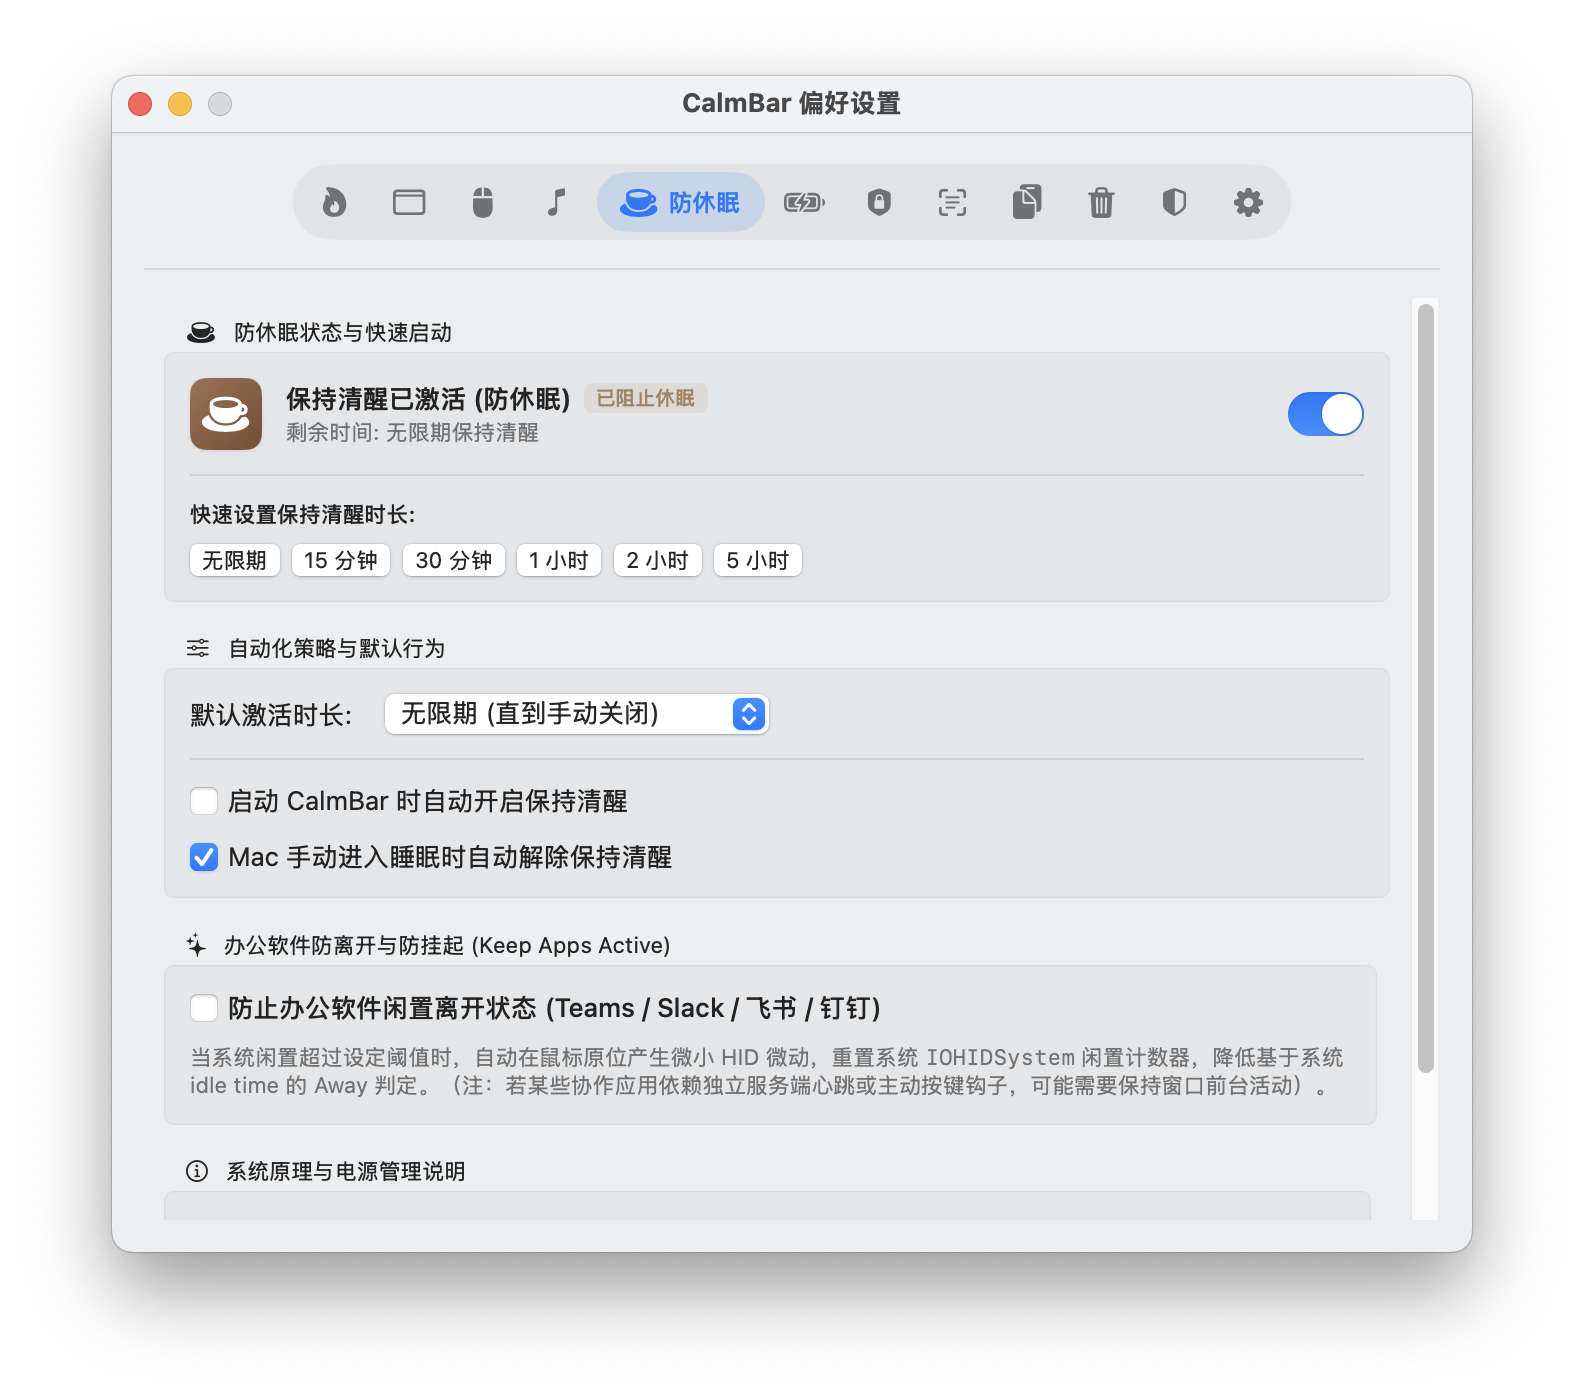
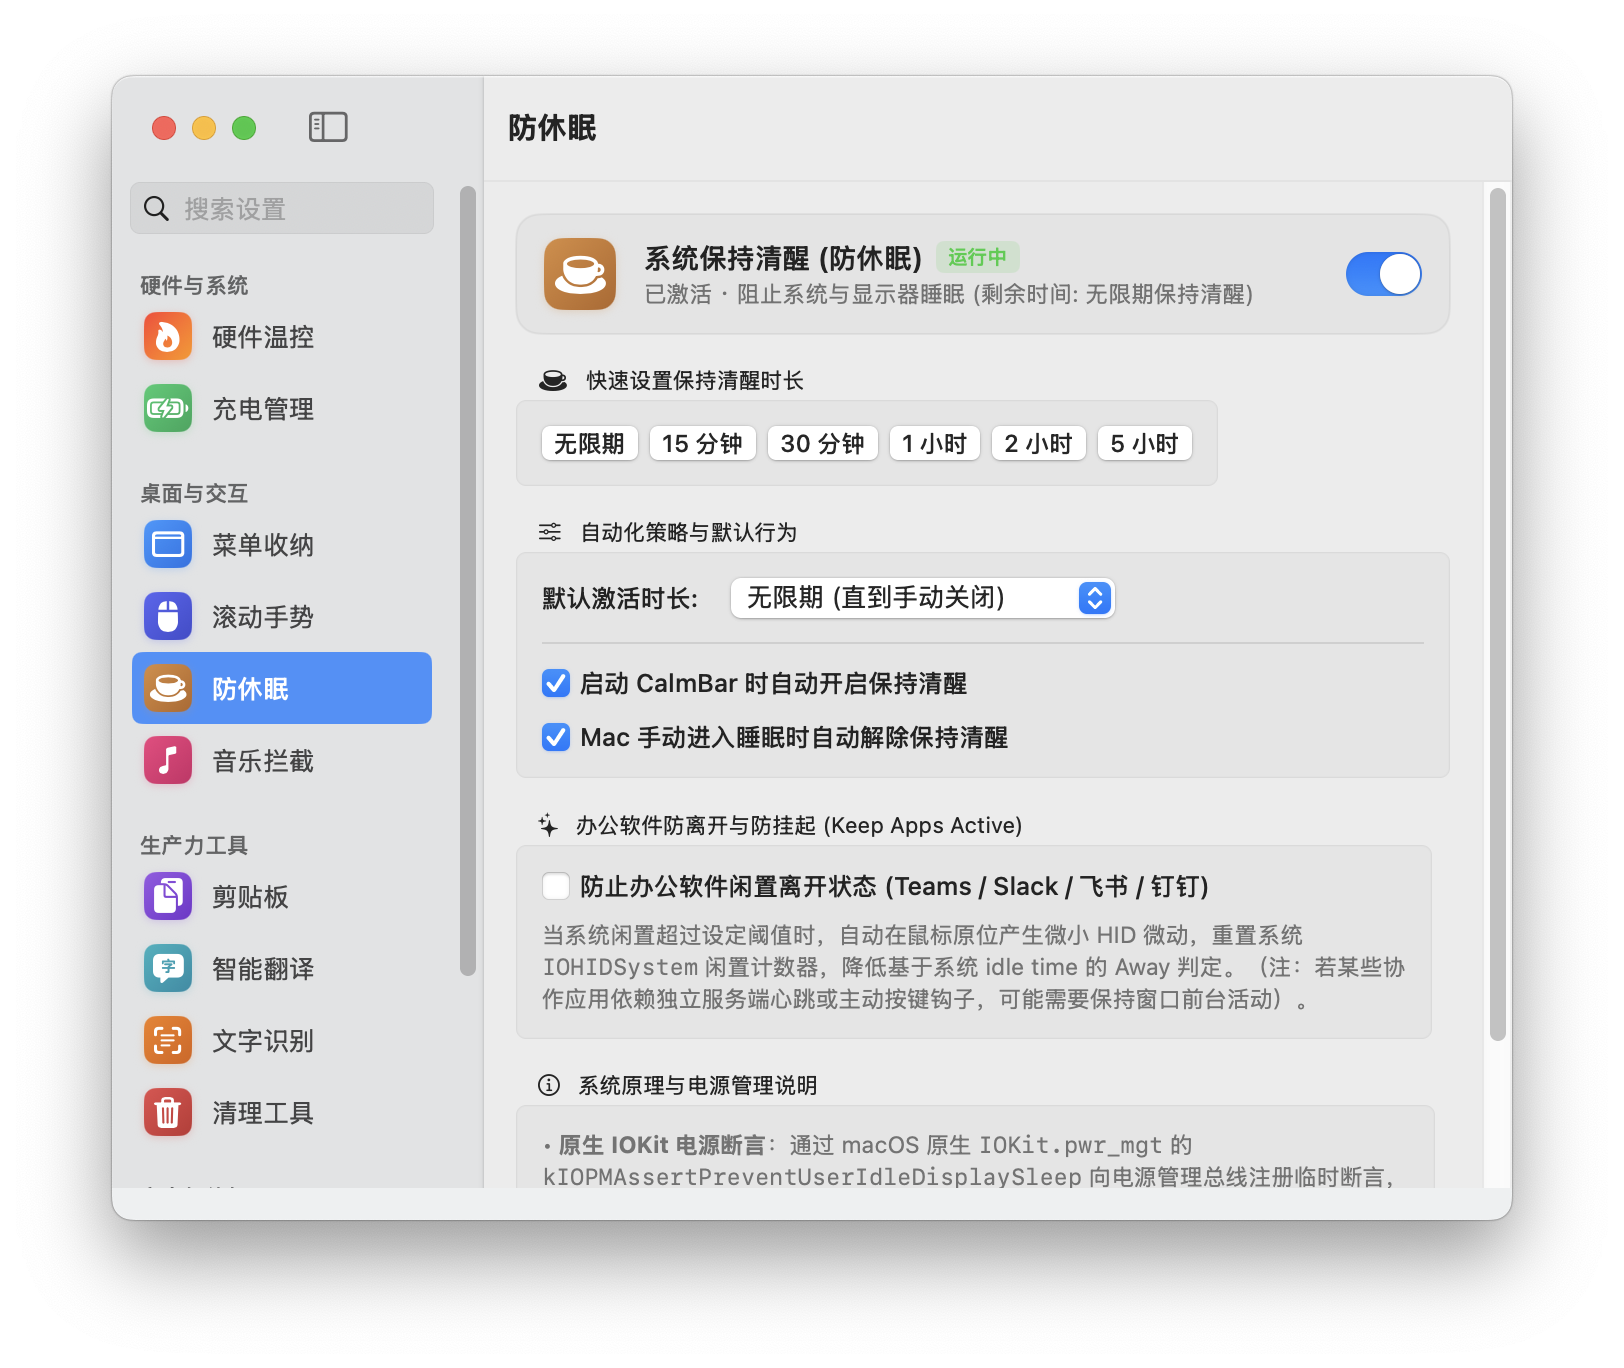
docs: refresh UI showcase screenshots and settings panels across README and site
- Update popover control center showcase with enhanced typography and fan readouts
- Update all 10+ settings tabs with native macOS 14 NavigationSplitView two-column layout
- Add settings showcase illustrations for scroll reverser, ocr, clipboard, cleaner, and general tabs
- Synchronize updated image assets to official site directory

diff --git a/README.md b/README.md
@@ -90,7 +90,11 @@
   * **外接鼠标**：强制反转垂直方向（Y 轴），恢复传统 Windows 风格滚轮滚动习惯。
   * **内建触控板 / Magic Mouse**：100% 保持 macOS 原生自然滚动方向、双指捏合缩放及惯性平滑滑动。
 * **底层低延迟**：基于系统级 `CGEventTap` 与精确时序算法，平滑顺畅。
-* **🕹 操作说明**：在菜单栏控制台点击「自然滚动」开关即可一键开启或关闭鼠标滚轮独立反转。
+* **🕹 操作说明**：在菜单栏控制台点击「自然滚动」开关即可一键开启或关闭鼠标滚轮独立反转，亦可在偏好设置中细分调节 X/Y 轴。
+
+<p align="center">
+  <img src="doc/images/scroll_settings.png" width="600" alt="滚动手势解耦偏好设置示例" />
+</p>
 
 ---
 
@@ -154,6 +158,10 @@
   <img src="doc/images/ocr_recognition.png" width="460" alt="屏幕文字识别悬浮结果示例" />
 </p>
 
+<p align="center">
+  <img src="doc/images/ocr_settings.png" width="600" alt="屏幕文字识别偏好设置示例" />
+</p>
+
 ---
 
 ### 9. 🌐 AI 划词翻译与 38 种多语言体系 (AI Translation & HY-MT2)
@@ -185,15 +193,19 @@
 * **多模态全格式监听**：纯文本、富文本 (RTF/HTML)、系统截图/复制图像、访达图片/文件 URL、网页链接、十六进制颜色代码等。
 * **访达图片智能升格与缩略图**：复制图片文件时自动升格为图片类型并生成高清缩略图与尺寸信息。
 * **Vision OCR 后台索引**：自动提取图片中的多语言文字与二维码内容，配合空间感知隔离算法消除噪点，支持全局关键词检索。
-* **安全隐私过滤**：自动忽略密码管理器（1Password/Bitwarden/KeePassXC）敏感数据及瞬态复制。
+* **安全隐私过滤与失焦隐藏**：自动忽略密码管理器（1Password/Bitwarden）敏感数据，支持配置失去焦点时自动隐藏窗口。
 * **独立管理窗口与 Pin 固定**：支持分类筛选（文本/图片/链接/文件/已固定）、Pin 固定保护、LRU 淘汰与磁盘缓存管理。
 * **🕹 操作说明**：
   1. 按下全局快捷键 **`⌥ + ⌘ + V`**（或点击主面板中的 **「剪贴板」** 磁贴），即可一键唤出或收起独立剪贴板管理窗口。
   2. 顶部支持按「文本 / 图片 / 链接 / 文件 / 已固定」快速筛选，支持搜索框实时模糊检索。
-  3. 点击任意条目右侧的 **「复制」** 即可写回系统剪贴板，点击大头针 📌 即可永久固定防清除。
+  3. 在偏好设置中可开启「允许窗口失焦隐藏」以及自定义最大存储上限与图片保存策略。
 
 <p align="center">
   <img src="doc/images/clipboard_history.png" width="600" alt="剪贴板历史管理窗口示例" />
+</p>
+
+<p align="center">
+  <img src="doc/images/clipboard_settings.png" width="600" alt="剪贴板偏好设置面板示例" />
 </p>
 
 ---
@@ -206,8 +218,8 @@
 * **IDE 孤立工作区清理**：自动探测 VS Code / Cursor 中工程源码已被删除的历史孤立工作区缓存，支持一键批量清理释放数 GB 磁盘空间。
 * **🕹 操作说明**：
   1. 点击主面板中的 **「清理中心」** 磁贴唤起清理窗口。
-  2. **软件卸载**：在左侧列表中点击任意 App，右侧自动勾选所有深层残留（App Support、Preferences、Caches 等），点击右下角 **「移入废纸篓」** 即可干净卸载。
-  3. **开发者清理**：切换至顶部 **「开发者清理」** 选项卡，查看各项工具链与孤立工作区缓存占用，点击对应项的 **「移入废纸篓」** 或 **「清空内容」** 即可瞬间释放空间。
+  2. **软件卸载**：在左侧列表中点击任意 App，右侧自动勾选所有深层残留，点击 **「移入废纸篓」** 干净卸载。
+  3. **开发者清理**：切换至顶部 **「开发者清理」** 选项卡，查看各项工具链占用，一键释放空间。
 
 <p align="center">
   <img src="doc/images/cleaner_app.png" width="600" alt="软件卸载与关联残留清理示例" />
@@ -215,6 +227,10 @@
 
 <p align="center">
   <img src="doc/images/cleaner_developer.png" width="600" alt="开发者环境工具链缓存清理示例" />
+</p>
+
+<p align="center">
+  <img src="doc/images/cleaner_settings.png" width="600" alt="清理引擎偏好设置示例" />
 </p>
 
 ---
@@ -234,10 +250,21 @@
 ### 13. 🔐 统一权限管理看板 (Permission Center)
 * **透明可信的权限管理**：汇总展示辅助功能 (Accessibility)、特权助手 (Privileged Helper)、屏幕录制 (Screen Capture) 与完全磁盘访问权限 (Full Disk Access)。
 * **明确使用目的与实时状态**：逐项说明权限对应功能与使用理由，提供一键激活助手与系统设置跳转引导。
-* **🕹 操作说明**：在偏好设置中点击顶部 **「权限安全」** 选项卡，可查看各项底层权限的关联功能与授权状态；点击「刷新权限状态」可即时同步系统设置中的变更。
+* **🕹 操作说明**：在偏好设置中点击 **「权限安全」** 选项卡，查看各项底层权限的关联功能与授权状态，支持从系统设置授权返回后自动刷新。
 
 <p align="center">
   <img src="doc/images/permissions_security.png" width="600" alt="权限安全中心看板示例" />
+</p>
+
+---
+
+### 14. ⚙ 通用设置与全局快捷键 (General Settings & Hotkeys)
+* **开机自启动与菜单栏指示**：支持一键开启登录时静默自启，以及在菜单栏图标旁实时展示硬件 SoC 温度。
+* **控制中心自定义展示项**：按需自由勾选控制中心磁贴与功能卡片的显示与隐藏。
+* **快捷键速查面板**：汇总展示全局 6 大高频快捷键，随心调度系统能力。
+
+<p align="center">
+  <img src="doc/images/general_settings.png" width="600" alt="通用设置与全局快捷键面板示例" />
 </p>
 
 ---
